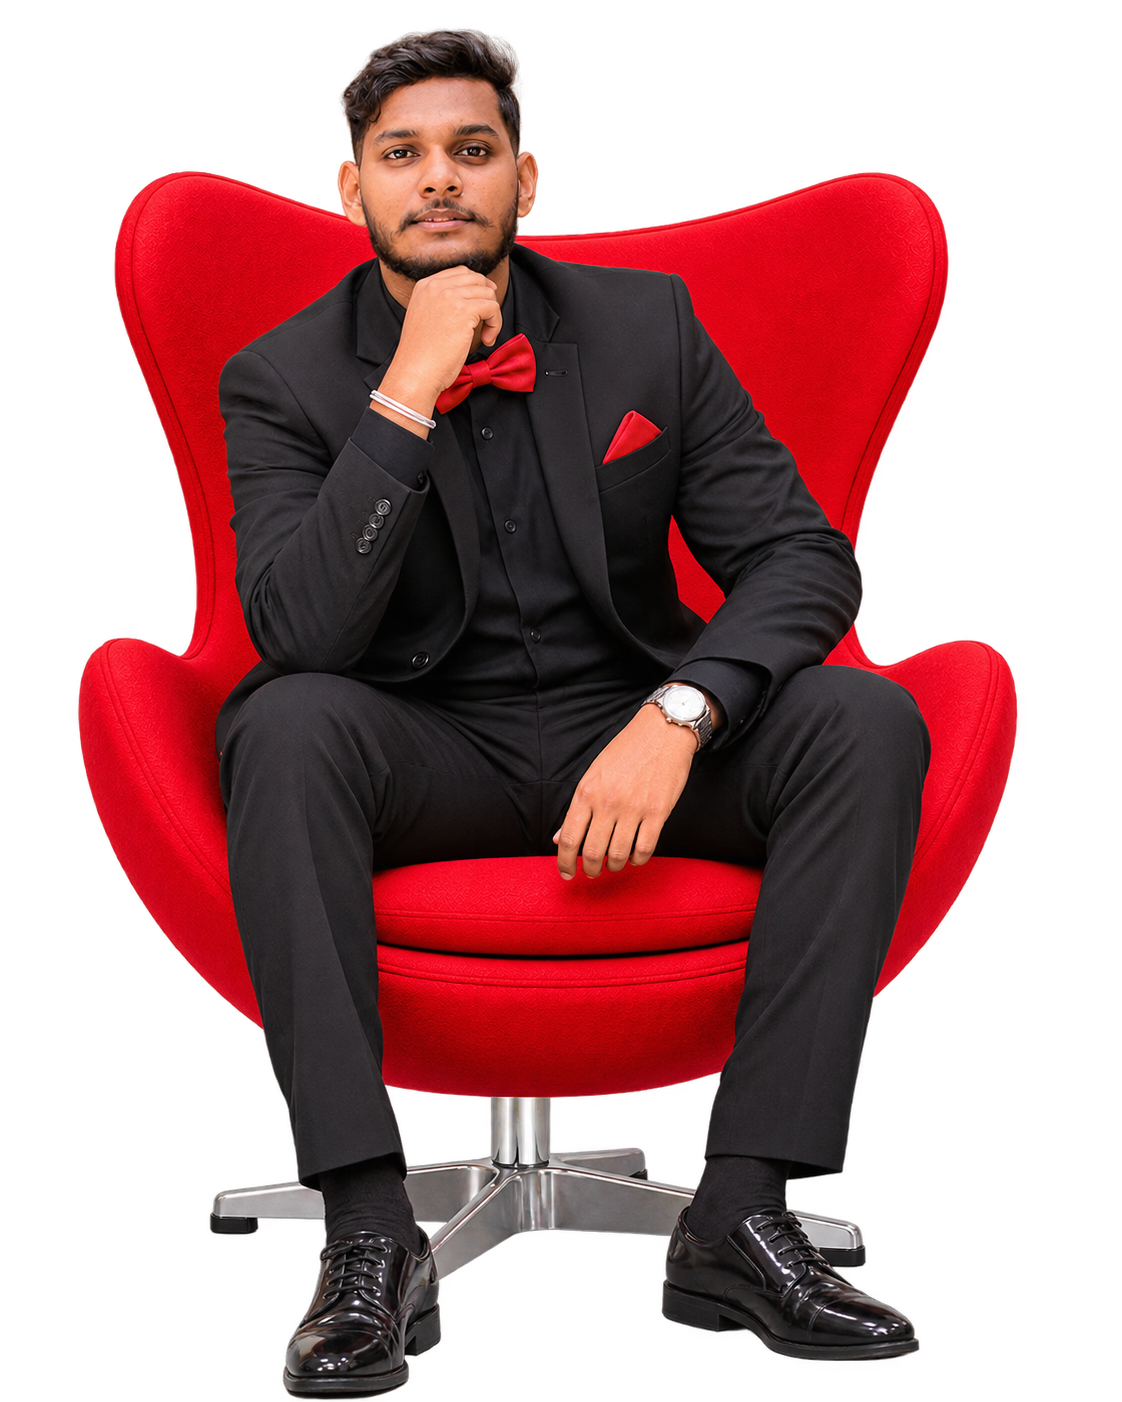
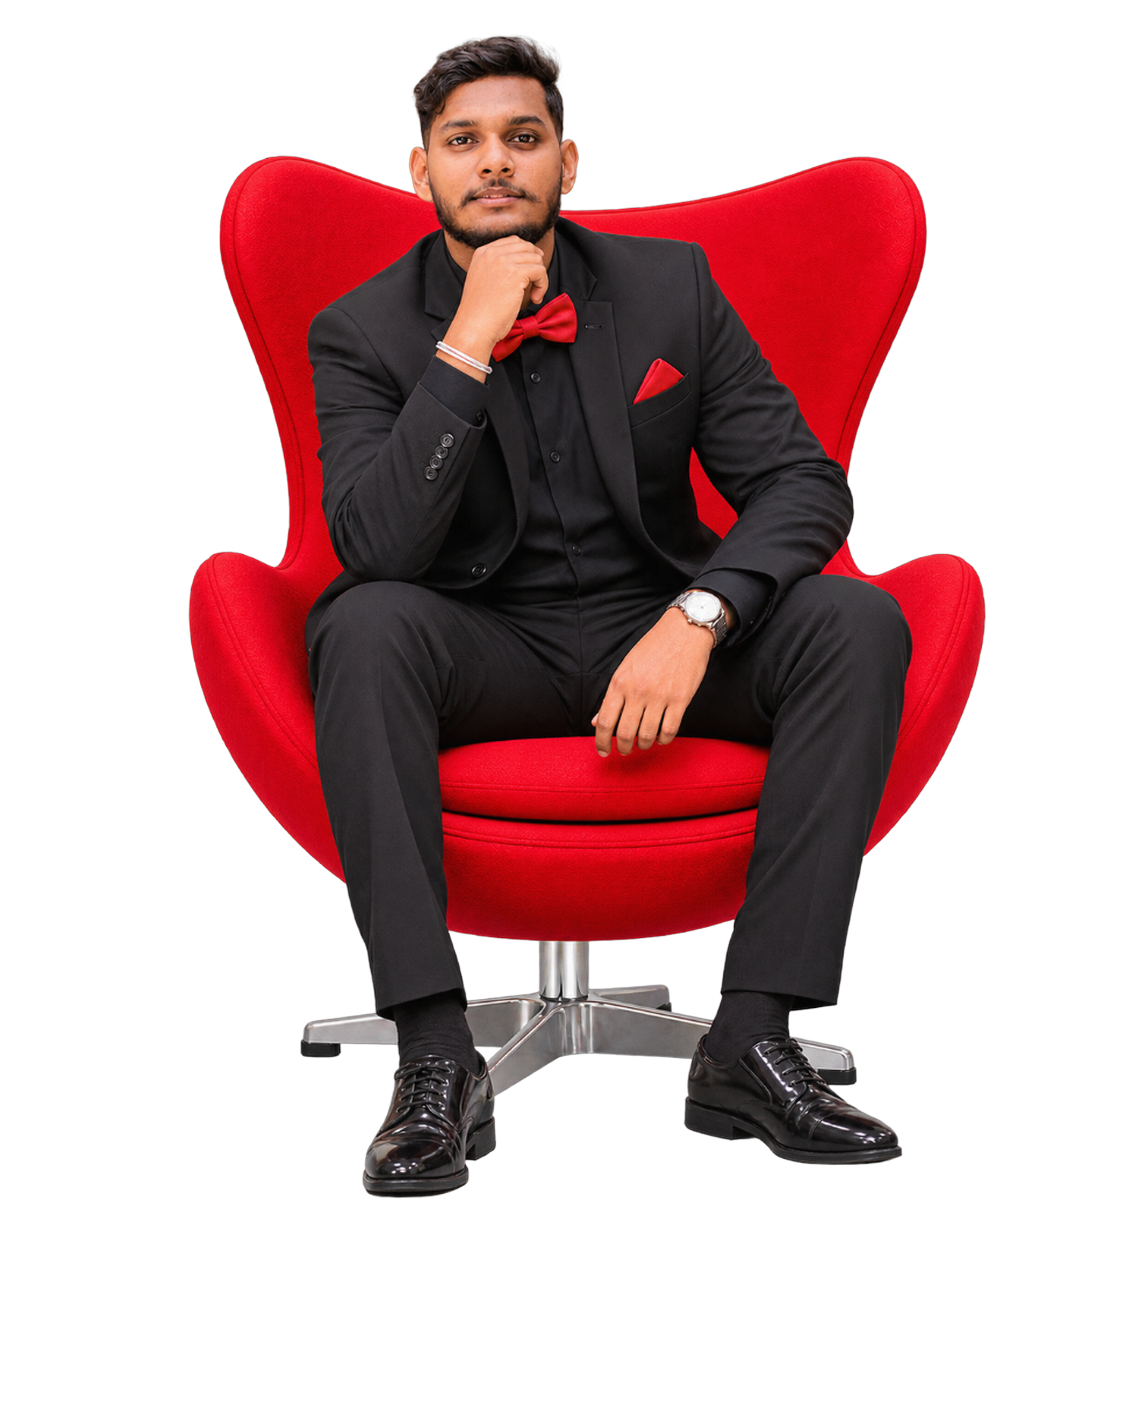
tharindu's image changed

diff --git a/components/mentors/FeaturedMentor.tsx b/components/mentors/FeaturedMentor.tsx
@@ -85,7 +85,7 @@ const MENTORS: Mentor[] = [
     anchor: "mentor-block-3",
     name: "meet Tharindu Perera",
     role: "Vocal & guitar instructor",
-    image: "/images/Mentors/Tharindu.png",
+    image: "/images/Mentors/tharindu-vocal.png",
     imageAlt: "Meladine Artist Tharindu Perera",
     sketch: "/images/Mentors/Microphone.png",
     sketchAspect: "aspect-[1122/1402]",
@@ -267,7 +267,7 @@ function DesktopShowcase({
   onNextMentor: () => void;
 }) {
   return (
-    <section className="relative w-full min-h-[2200px] 2xl:min-h-[2380px] pt-16 pb-10 flex flex-col items-start justify-start overflow-hidden">
+    <section className="relative w-full min-h-[2260px] 2xl:min-h-[2480px] pt-16 pb-10 flex flex-col items-start justify-start overflow-hidden">
       {/* Background Architectural Subtle Grid */}
       <div className="absolute inset-0 pointer-events-none opacity-30 z-0">
         <div className="curtain-grid-columns h-full">
@@ -400,9 +400,9 @@ function DesktopShowcase({
       {/* 2nd Mentor Showcase: Right Side (Dileepa Liyanage)           */}
       {/* ============================================================ */}
       <div id="next-mentor" data-mentor="mentor2" className="absolute right-0 top-[680px] 2xl:top-[760px] z-20 flex flex-col items-end">
-        <div className="relative w-[620px] 2xl:w-[700px] aspect-[1086/1448] -mr-32 2xl:-mr-40 drop-shadow-2xl">
+        <div className="relative w-[620px] 2xl:w-[700px] aspect-[1122/1402] -mr-32 2xl:-mr-40 drop-shadow-2xl">
           <Image
-            src="/images/Home/dileepa.png"
+            src="/images/Mentors/Dileepa.png"
             alt="Meladine Artist Dileepa Liyanage"
             fill
             sizes="700px"
@@ -486,9 +486,9 @@ function DesktopShowcase({
         <div className="relative flex flex-col items-start justify-start -ml-32 2xl:-ml-40">
 
           {/* Image + Attached Doodle Arrow & Text Package */}
-          <div className="relative z-20 w-[660px] 2xl:w-[740px] aspect-[1086/1448] drop-shadow-2xl">
+          <div className="relative z-20 w-[660px] 2xl:w-[740px] aspect-[1122/1402] drop-shadow-2xl">
             <Image
-              src="/images/Home/tharindu.png"
+              src="/images/Mentors/tharindu-vocal.png"
               alt="Meladine Artist Tharindu Perera"
               fill
               sizes="740px"
